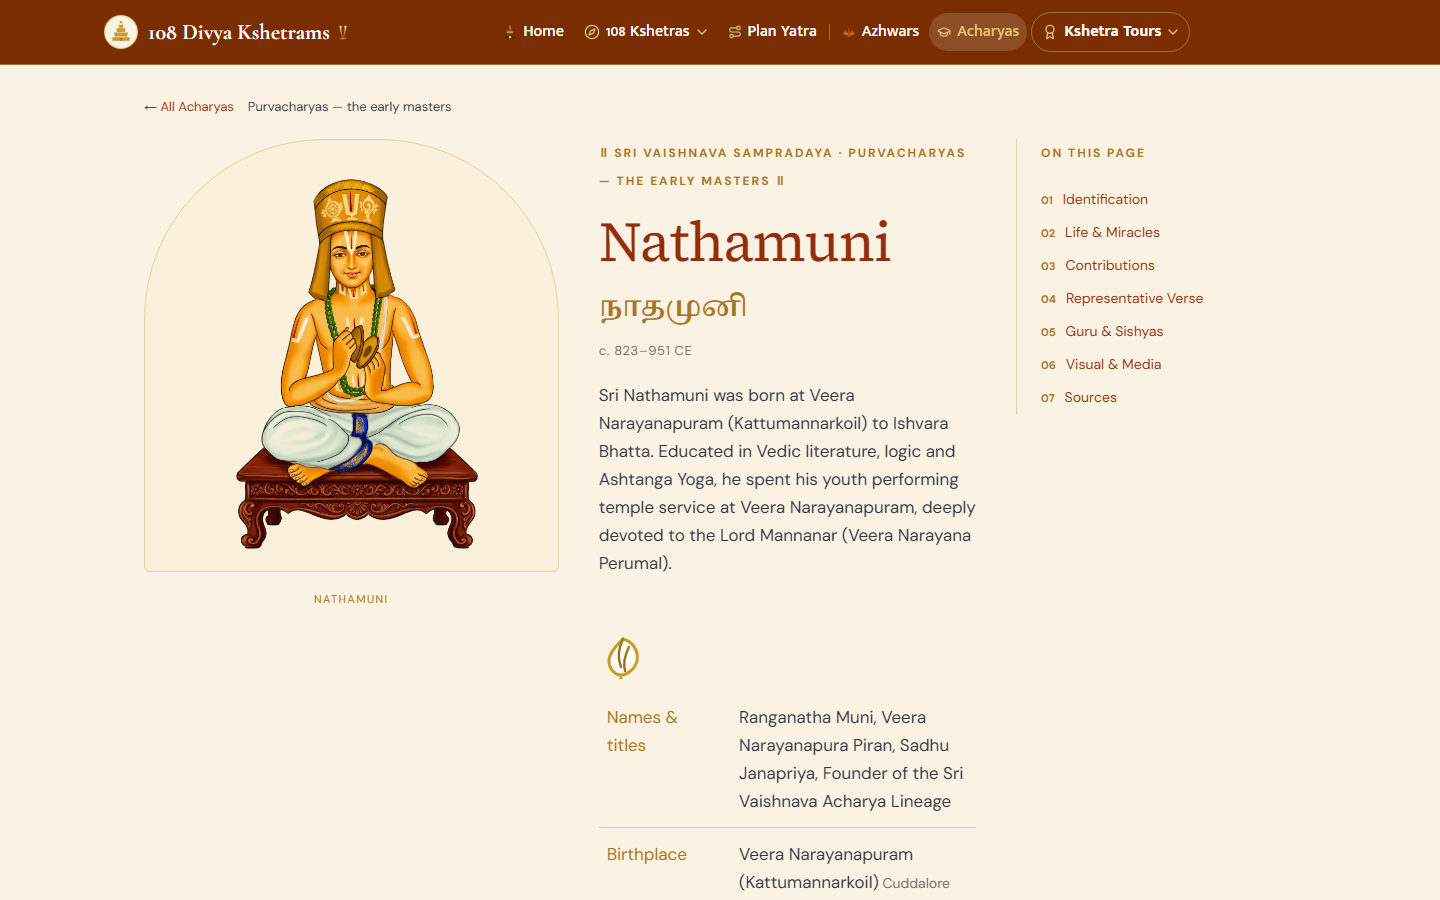
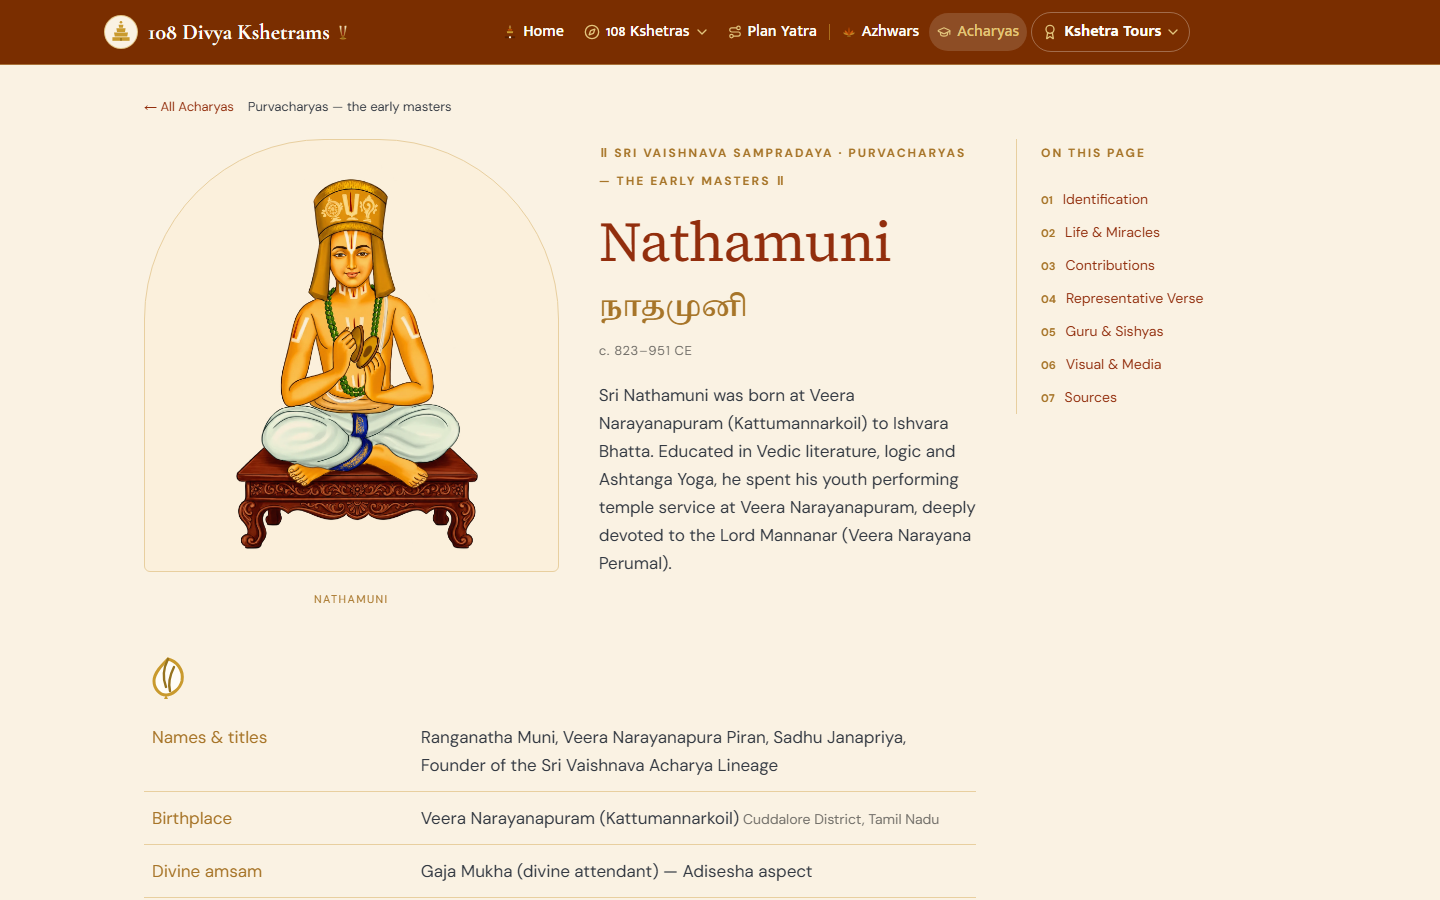
Acharya hero fact sheet spread under portrait + text (round 38 follow-up): PO feedback — the names/titles, birthplace, amsam and jayanthi rows now span BOTH the portrait column and the text column (grid-column 1/3 desktop, full width <=1100) instead of sitting under the text alone; portrait holds ro

diff --git a/app/src/styles/saint-detail.css b/app/src/styles/saint-detail.css
@@ -199,9 +199,11 @@
  * arched cream stage left (~36%), identity + facts right, rail kept.
  * ==================================================================== */
 .kxd .acd-hero--portrait { grid-template-columns: minmax(235px, 36%) minmax(0, 1fr) 280px; }
-.kxd .acd-hero--portrait .acd-portrait { grid-column: 1; grid-row: 1 / 3; margin: 0; text-align: center; }
+/* PO round 38 follow-up: the fact sheet (names/titles, birthplace, amsam,
+   jayanthi) spreads under BOTH the portrait and the text column. */
+.kxd .acd-hero--portrait .acd-portrait { grid-column: 1; grid-row: 1; margin: 0; text-align: center; }
 .kxd .acd-hero--portrait .acd-identity { grid-column: 2; grid-row: 1; }
-.kxd .acd-hero--portrait .acd-facts { grid-column: 2; grid-row: 2; }
+.kxd .acd-hero--portrait .acd-facts { grid-column: 1 / 3; grid-row: 2; }
 .kxd .acd-hero--portrait > aside { grid-column: 3; grid-row: 1 / 3; }
 /* Period line under the Tamil name (moved out of the fact sheet per mockup) */
 .kxd .acd-period { font-size: 13px; letter-spacing: 0.05em; color: var(--muted); margin: 0 0 16px; }
@@ -293,9 +295,9 @@
   .kxd .azd-icono-grid { grid-template-columns: 160px minmax(0, 1fr); gap: 24px; }
   .kxd .acd-hero { grid-template-columns: minmax(0, 1fr) minmax(0, 1fr); }
   .kxd .acd-hero--portrait { grid-template-columns: minmax(180px, 30%) minmax(0, 1fr); }
-  .kxd .acd-hero--portrait .acd-portrait { grid-row: 1 / 3; }
+  .kxd .acd-hero--portrait .acd-portrait { grid-row: 1; }
   .kxd .acd-hero--portrait .acd-identity { grid-column: 2; grid-row: 1; }
-  .kxd .acd-hero--portrait .acd-facts { grid-column: 2; grid-row: 2; }
+  .kxd .acd-hero--portrait .acd-facts { grid-column: 1 / -1; grid-row: 2; }
   .kxd .acd-hero--portrait > aside { grid-column: 1 / -1; grid-row: auto; }
   .kxd .acd-rail { grid-column: 1 / -1; border-left: 0; border-top: 1px solid var(--line); padding: 20px 0 0; position: static; }
 }

diff --git a/docs/05-testing/test-execution-report.md b/docs/05-testing/test-execution-report.md
@@ -3484,3 +3484,27 @@ the L1 skip target and every biography section are unchanged.
   1440/768/390 + pillai-lokacharya 1440 + p-b-anna 390). This is an
   APPROVED layout change: desktop intentionally differs from the old
   two-column text hero; no other page type is affected.
+
+## Version 2.55 — Fact Sheet Spread Under Portrait + Text (2026-10-22, round 38 follow-up)
+
+**Trigger:** PO feedback on the new Identification hero — the section
+with names/titles, birthplace, divine amsam and jayanthi should spread
+under BOTH the portrait and the text column, not sit under the text
+alone.
+
+### Delivered
+
+CSS-only: `.acd-facts` now spans grid columns 1-2 (portrait + identity)
+at desktop and the full width at ≤1100; the portrait occupies row 1 so
+the fact sheet always clears the taller of portrait/intro before
+spreading. Rail (col 3) and the mobile stack are unchanged.
+
+### Verification
+
+Measured Nathamuni at 1440/1024/768/390: facts left edge aligns with the
+portrait column (144 = 144 at 1440), width 832px/976px spanning both
+columns (mobile stacked unchanged), top clears both portrait and
+identity bottoms, rail intact, scrollWidth == clientWidth everywhere.
+Lint 0 err/6 warn; build clean; CSS-only (CI runs the full suite).
+Gate shots updated: `acharya-hero-38/nathamuni-1440.png` +
+`nathamuni-1024-spread-facts.png`.
